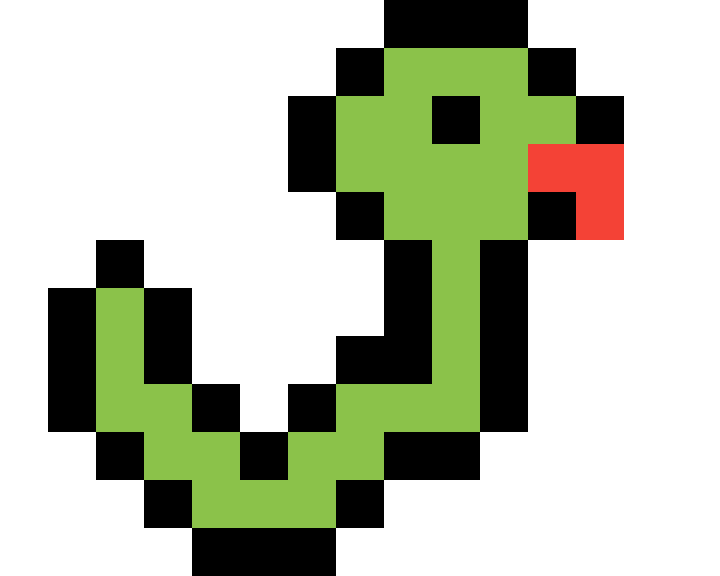
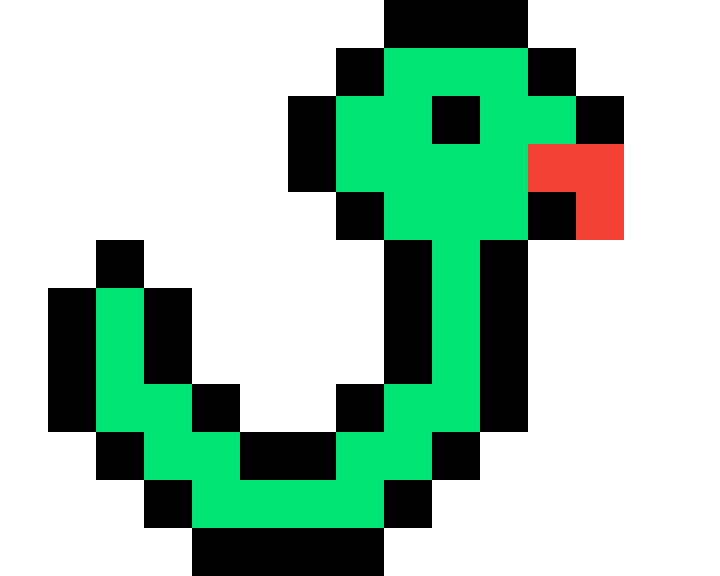
Jack Math Game 4th Commit JavaFX

Changed region(s): [[0.1222, 0.0625, 0.825, 1.0]]

diff --git a/src/org/headroyce/AngoPets/GameLogic.java b/src/org/headroyce/AngoPets/GameLogic.java
@@ -27,7 +27,7 @@ public class GameLogic {
         buttons = new ArrayList<>();
         rand = new Random();
         gameTimer = new GameTimer();
-        genderNeutralAngopet = new Bear(90, 70);
+        genderNeutralAngopet = new Snake(85, 70);
         int1 = rand.nextInt(10);
         int2 = rand.nextInt(10);
         operation = "add";

diff --git a/src/org/headroyce/AngoPets/Snake.java b/src/org/headroyce/AngoPets/Snake.java
@@ -34,5 +34,8 @@ public class Snake extends AngoPet {
         if (age > 5 && age <= 15) {
             img = new Image("file:PICS/babySnake.png");
         }
+        if (age > 15 && age <= 25) {
+            img = new Image("file:PICS/green_teenSnake.png");
+        }
     }
 }
